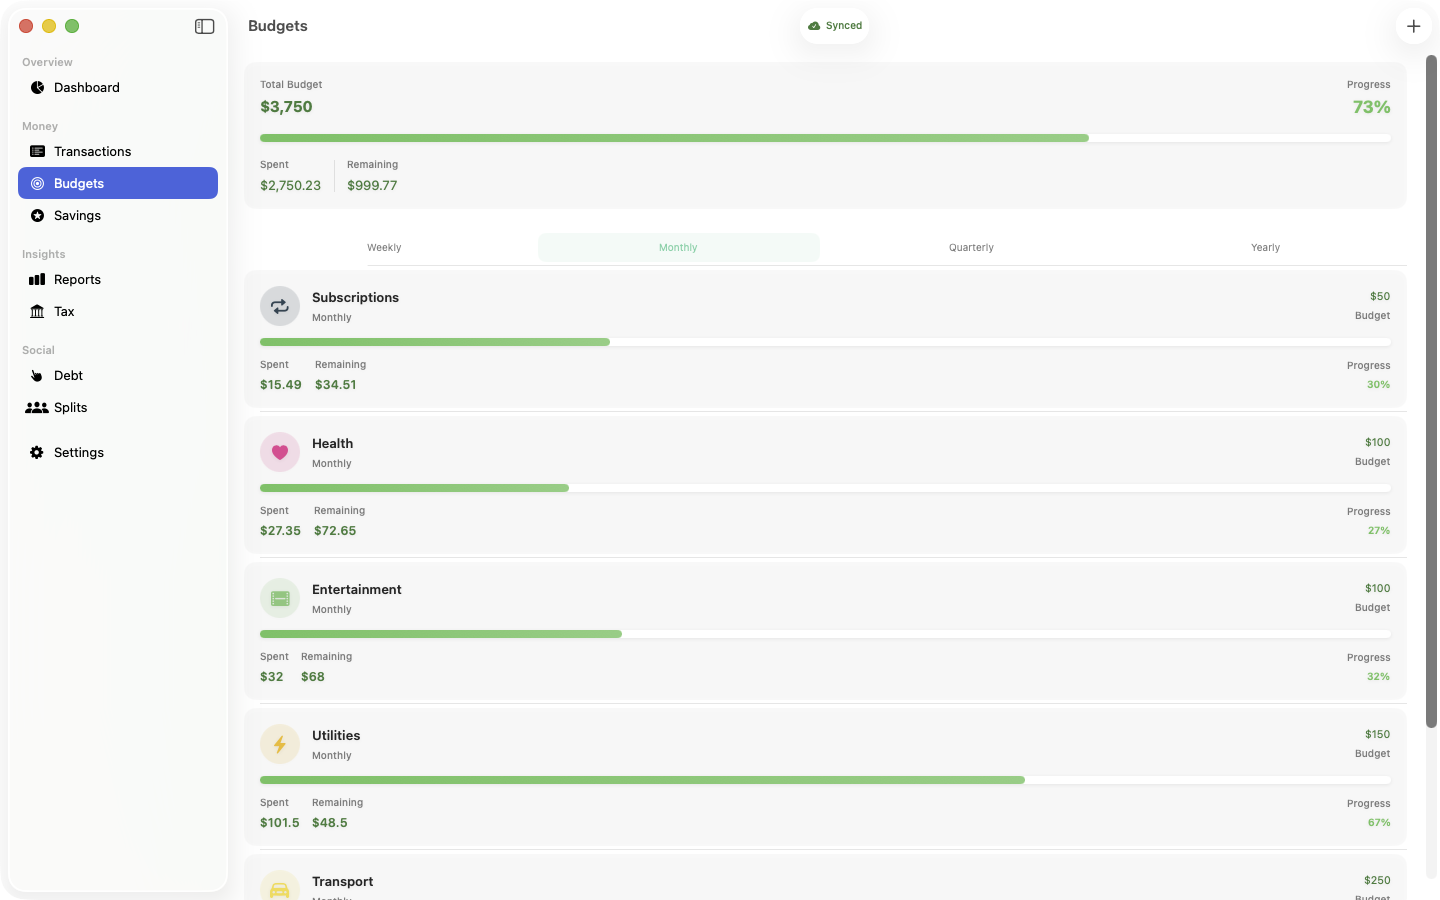
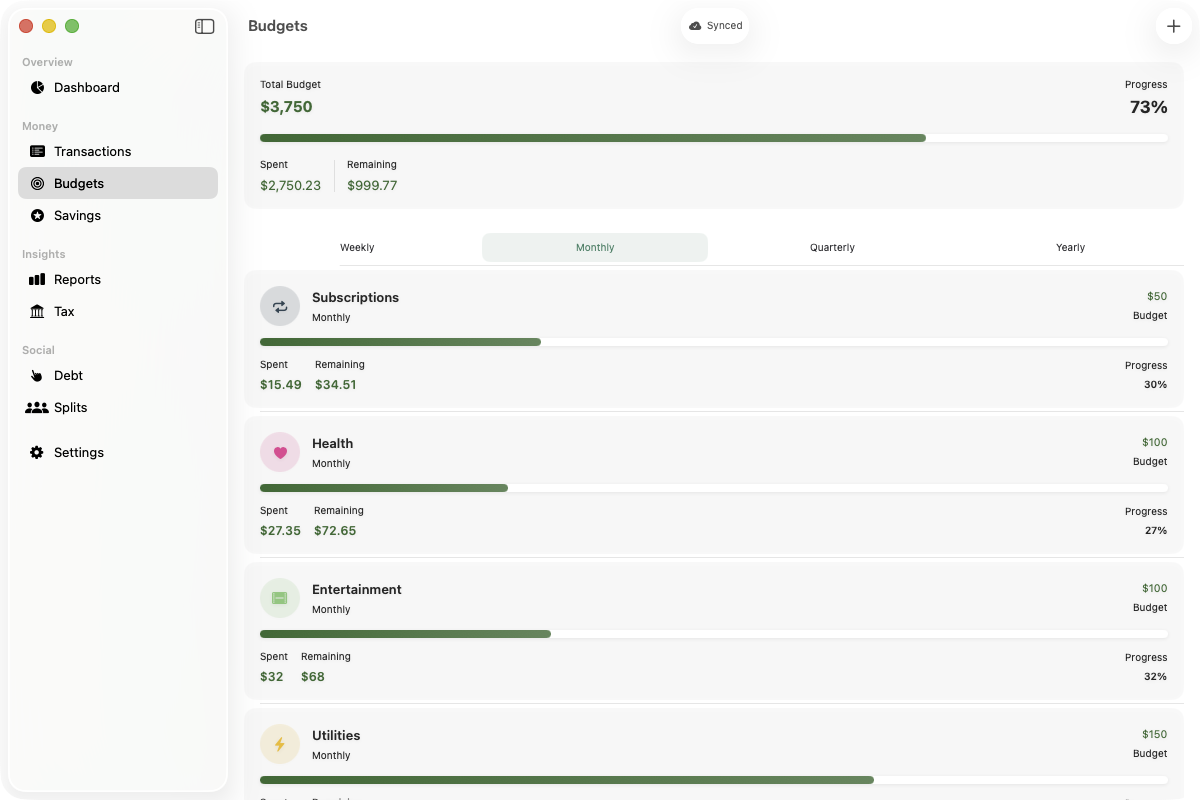
chore(store): capture the Mac screenshots; pin appearance to light
The Mac set was the last gallery still showing v1.0 content. Now captured from
the current build: 6 slots, the real two-column Mac layout with sidebar, donut
chart and Year in Review.

Three things had to be fixed to get a window at all:

1. The screen must be unlocked. While locked the app launches and never creates
   a window — CGWindowList shows the process running with zero windows and
   nothing is logged, which is a confusing way to fail. That was the original
   blocker.
2. Launch through `open`, not by exec'ing the .app binary. A directly-exec'd
   binary gets no proper GUI session from a shell and fails the same silent way.
   This is why the first attempt still failed after unlocking.
3. Poll for the window instead of sleeping a fixed time — a deep-linked shot
   takes noticeably longer to appear than a plain tab.

Known quirk, avoided rather than root-caused: `--ui-test-open-url` together with
`-AppleLanguages` leaves the app running with no window. Reproducible, and
neither argument does it alone; it cost two of six shots before being isolated.
The script now only sets locale arguments when the locale is not `en`, which
costs nothing since the Mac listing is en-US only — but a localized Mac set
would hit this, so it is documented rather than silently worked around.

Appearance is pinned with --ui-test-appearance=light in both capture scripts
(override with APPEARANCE=), so the sets no longer depend on how the host Mac
[…]

diff --git a/Scripts/store/make_marketing.py b/Scripts/store/make_marketing.py
@@ -23,9 +23,6 @@ COPY_BY_LOCALE = {
         "02-transactions": ("Track Every\nTransaction",     "Ten-second capture with instant search and filters"),
         "03-budgets":      ("Budgets That\nKeep Up",        "Per-category limits with overspend warnings"),
         "04-fiftythirtytwenty": ("Needs, Wants,\nSavings",     "See your month against the 50/30/20 guideline"),
-        # Only the Mac raws still carry a savings capture (see the note in
-        # capture_screenshots.sh); kept so the Mac gallery is not cut to four.
-        "04-savings":      ("Achieve Your\nSavings Goals",  "Set a target and watch the progress ring fill"),
         "05-reports":      ("Reports That\nExplain",        "Category breakdowns, trends, and cash flow"),
         "06-yearinreview": ("Your Year,\nWrapped",          "Total spent, top categories, and your biggest month"),
     },

diff --git a/Docs/Store/screenshots/README.md b/Docs/Store/screenshots/README.md
@@ -55,7 +55,6 @@ terminate-and-relaunch.
 `ponytail:` note at `AppTabView.swift:196` — so a capture would show a menu under
 a "savings goals" headline. 50/30/20 deep-links properly and is also a 1.4
 feature worth advertising. The Description still covers savings goals in words.
-The `mac` set keeps its older `04-savings` raw because it cannot be re-shot yet.
 
 ## Headline text goes through CoreText, not Pillow
 
@@ -72,7 +71,7 @@ matras and conjuncts come out in the wrong order. Strings are rendered once at
 | `ipad-13` | **ready to upload** — 6 slots, portrait 2064x2752 |
 | `watch` | **ready** — regenerated, real post-seed snapshot |
 | `iphone-69-hi`, `iphone-69-es` | **ready to upload** — 6 slots, fully localized |
-| `mac` | **stale (v1.0 content)** — capture blocked, see below |
+| `mac` | **ready to upload** — 6 slots, captured from the current build |
 
 ### hi / es are fully localized as of the L3 fix
 
@@ -84,18 +83,36 @@ The India demo dataset still uses English payee names and notes ("Lunch Order",
 "Monthly Staples"). Those are user data rather than UI strings, so they are not
 a localization bug, but a Hindi set would read better with Hindi ones.
 
-### Mac captures are blocked on this machine
+### Mac capture: two traps
 
-`capture_mac_screenshots.sh` is complete and correct, but the Mac app launches
-without ever creating a window while the screen is locked — startup reads the
-login keychain, which is locked too. Nothing is logged and no window appears, so
-`screencapture -l` has nothing to target. Run it with the machine unlocked and
-the existing v1.0-era `mac/` raws will be replaced in one command. A signed build
-is required (`CODE_SIGNING_ALLOWED=NO`, as `make build-macos` uses, produces a
-binary whose entitlements don't apply).
+`capture_mac_screenshots.sh` runs the real app on the host — there is no macOS
+simulator — and captures its window with transparent rounded corners.
 
-Mac accepted sizes are 1280x800, 1440x900, 2560x1600 and 2880x1800 — the current
-1440x900 is valid, just low-resolution.
+1. **The screen must be unlocked.** While it is locked the app launches and never
+   creates a window: `CGWindowList` shows the process running with zero windows
+   and nothing is logged, which is a confusing way to fail.
+2. **Launch through `open`, never by exec'ing the binary.** A directly-exec'd
+   `.app` binary gets no proper GUI session from a shell and produces the same
+   silent windowless process.
+
+A **signed** build is required. `make build-macos` passes
+`CODE_SIGNING_ALLOWED=NO`, which is fine for a compile check but produces a
+binary whose entitlements do not apply — build with `-allowProvisioningUpdates`
+instead.
+
+The script polls for the window rather than sleeping a fixed time, because a
+deep-linked shot takes noticeably longer to appear than a plain tab.
+
+**Known quirk, avoided rather than root-caused:** passing `--ui-test-open-url`
+*together with* `-AppleLanguages` leaves the app running with no window.
+Reproducible; neither argument does it alone. The script therefore only sets the
+locale arguments when the locale is not `en`, which costs nothing because the Mac
+listing is en-US only — but a localized Mac set would hit this.
+
+Appearance is pinned with `--ui-test-appearance=light` (override with
+`APPEARANCE=`) so the Mac set matches the iOS sets regardless of how the host
+Mac is themed. Mac accepted sizes are 1280x800, 1440x900, 2560x1600 and
+2880x1800; the composed output is 1440x900.
 
 ## Watch
 
